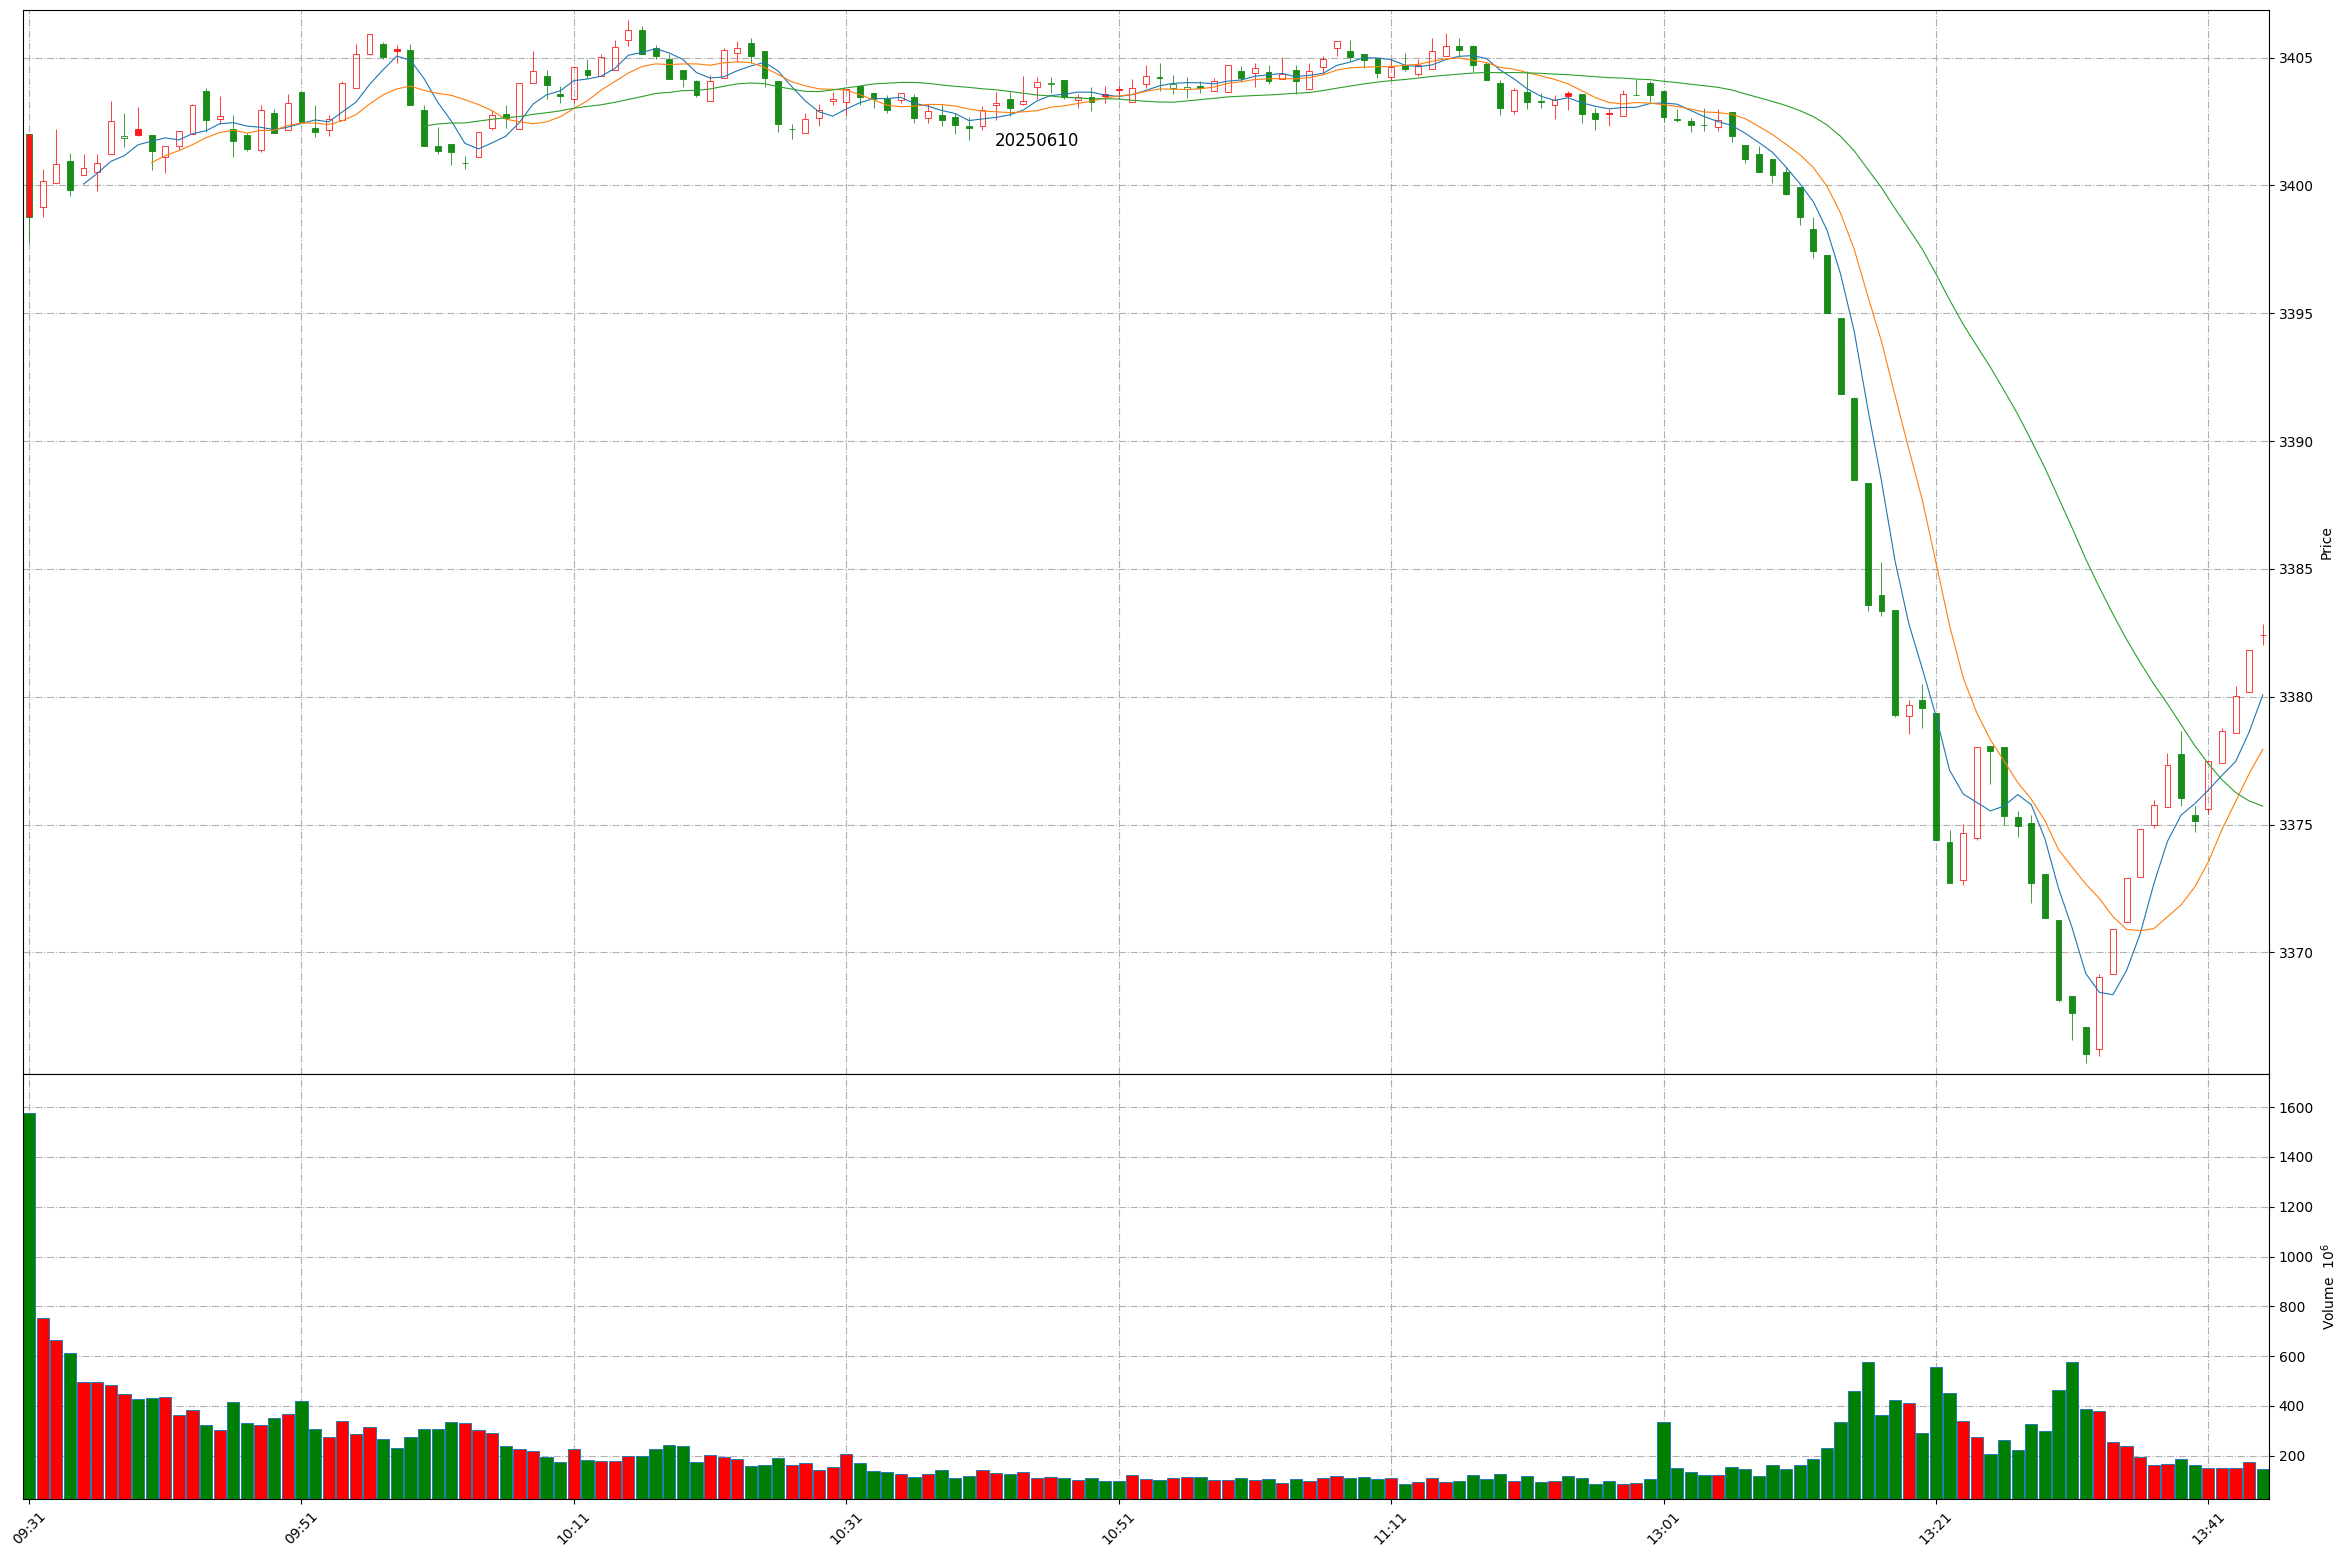
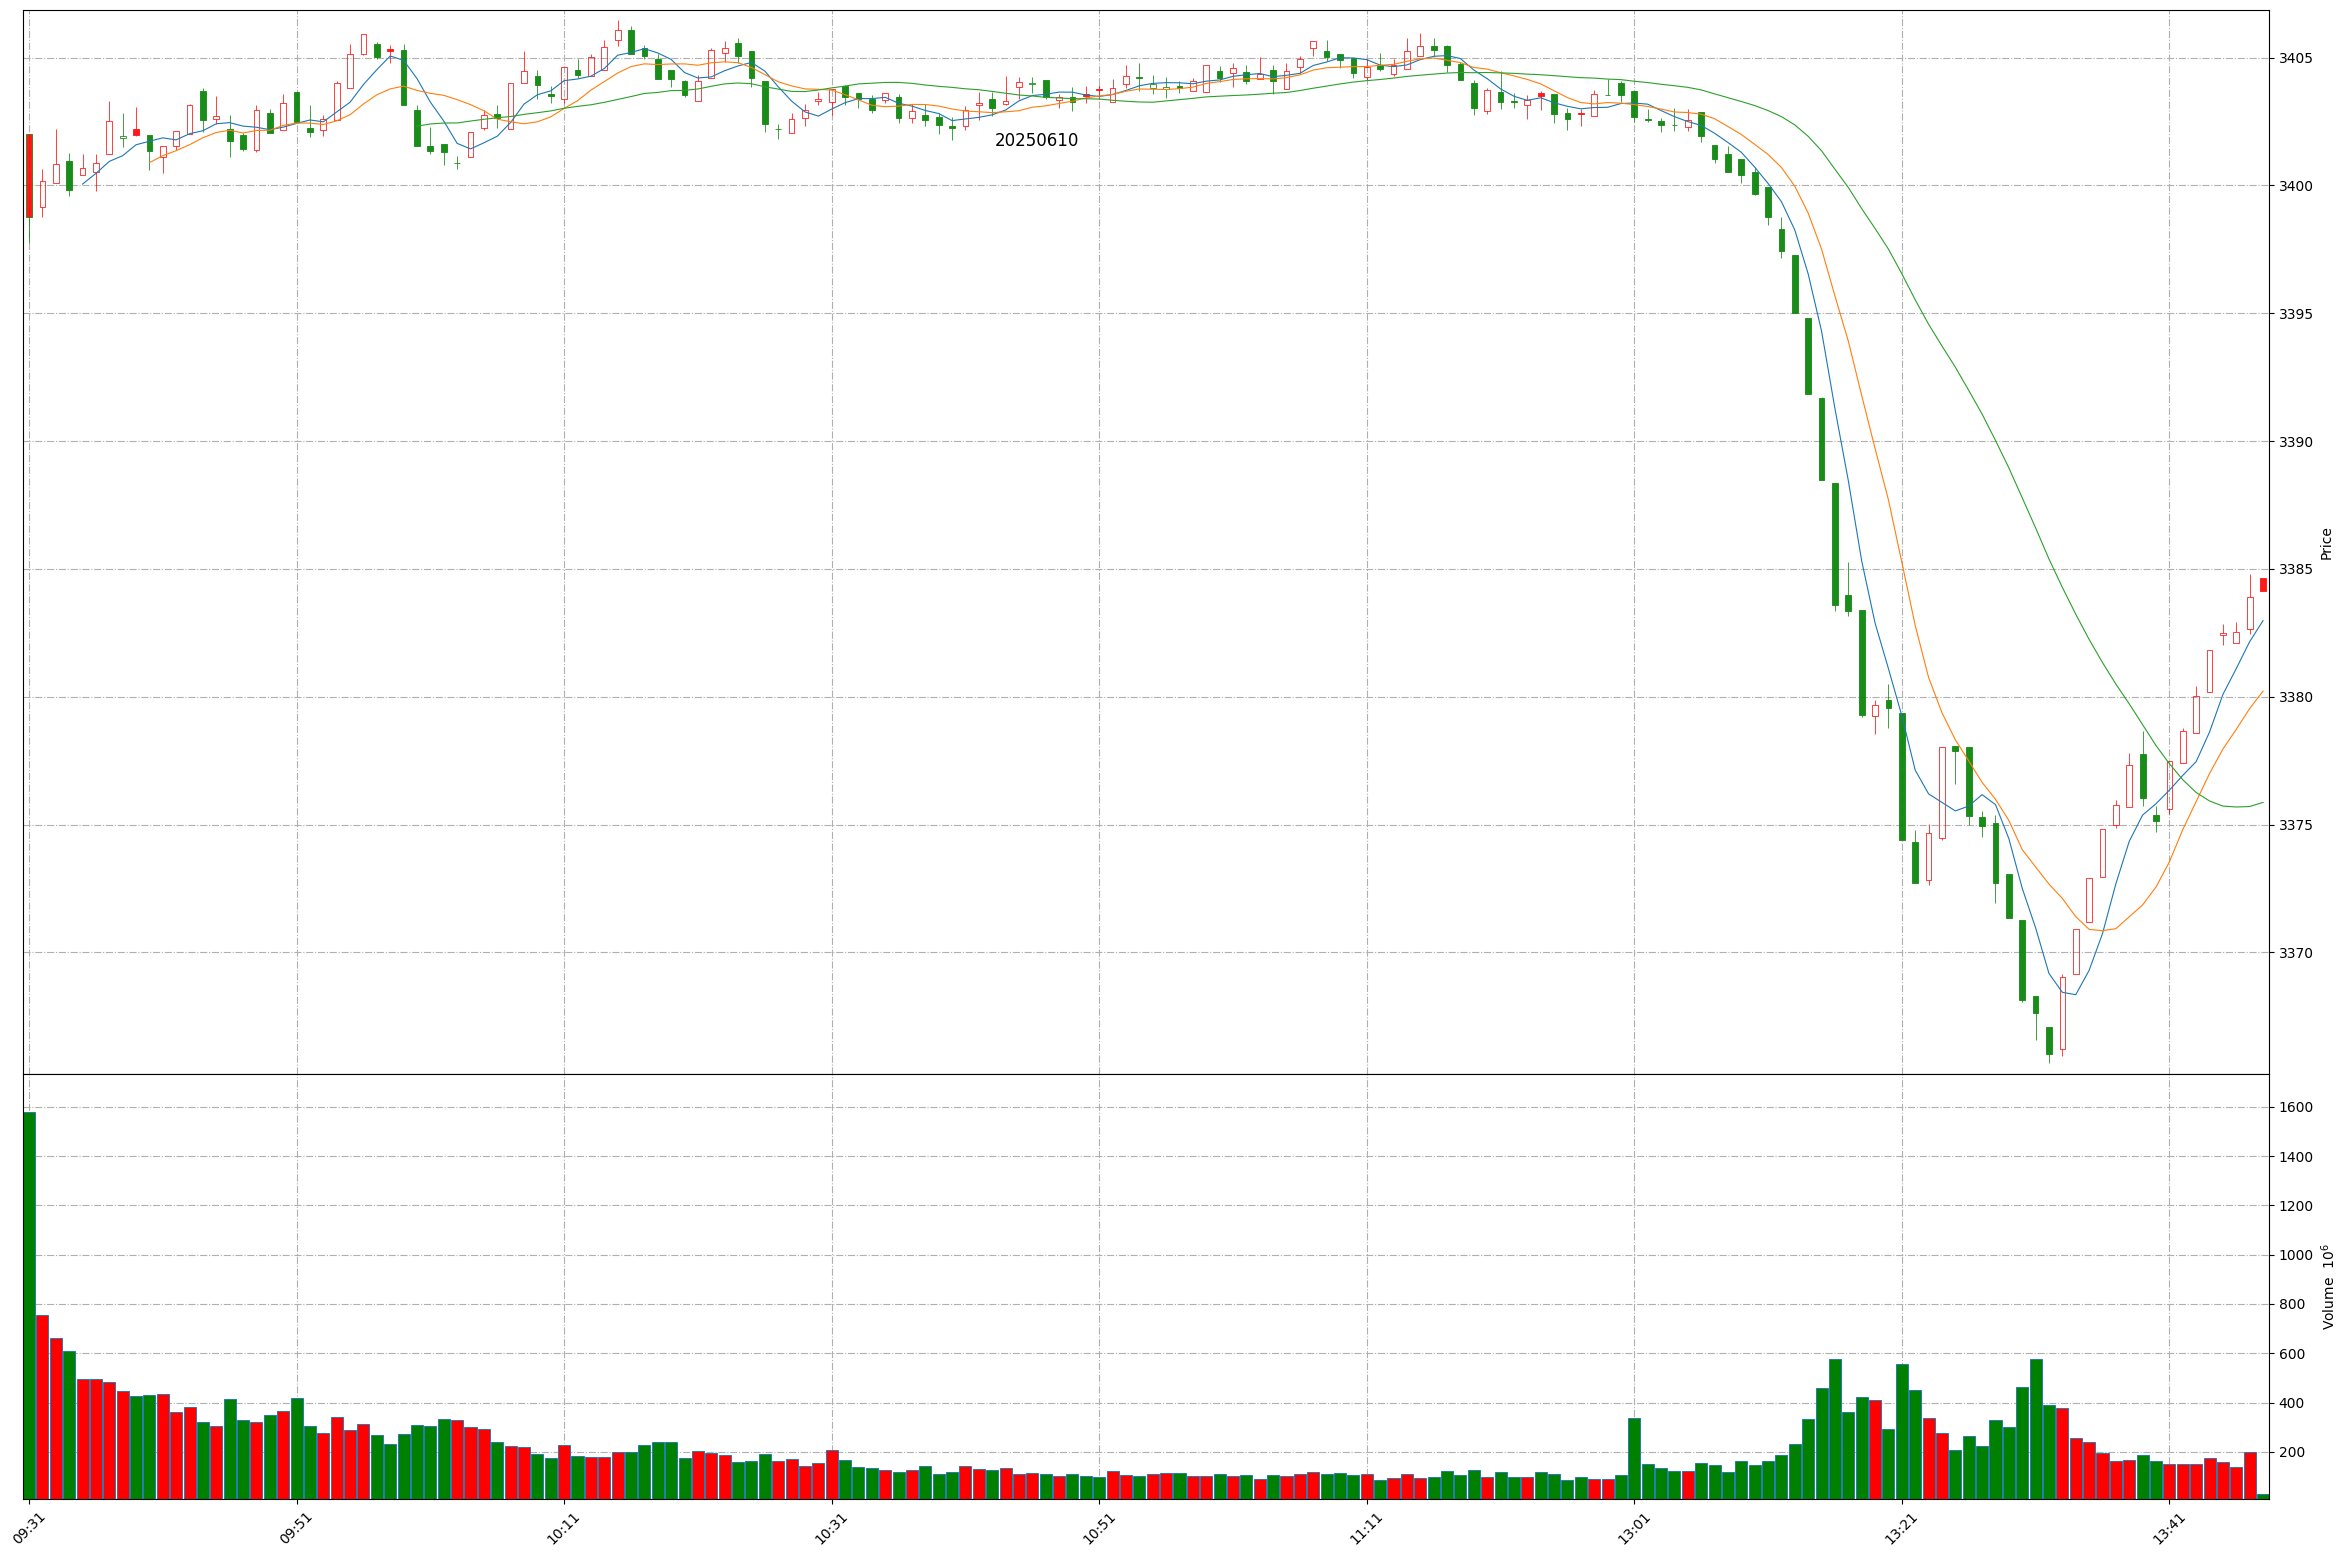
Github action update at 2025-06-10 13:47:27.

Changed region(s): [[0.0622, 0.0, 0.9638, 0.6782], [0.0311, 0.8632, 0.9949, 0.9865], [0.0311, 0.0925, 0.0622, 0.1233]]

diff --git a/README.md b/README.md
@@ -1,11 +1,11 @@
 
 # Daily-A-share-market-quotes 每日 A 股指数（5min 更新）- 20250610
 
-### 上证指数 20250610 13:45
+### 上证指数 20250610 13:47
 ![](./fig/2025/6/20250610-sh000001.png)
 
-### 深证成指 20250610 13:45
+### 深证成指 20250610 13:47
 ![](./fig/2025/6/20250610-sz399001.png)
 
-### 北证50 20250610 13:45
+### 北证50 20250610 13:47
 ![](./fig/2025/6/20250610-bj899050.png)
